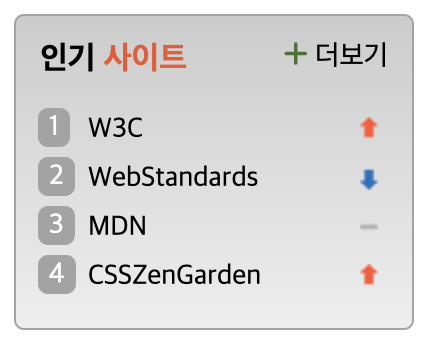
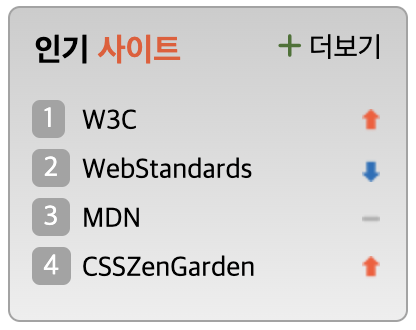
mission-05 제출

diff --git a/mission-05/sprite.css b/mission-05/sprite.css
@@ -46,9 +46,9 @@ a {
   width: 200px;
   height: 158px;
   padding: 12px;
-  background: linear-gradient(180deg, #CCCCCC 0%, #EEEEEE 100%);
+  background: linear-gradient(180deg, #CCC 0%, #EEE 100%);
   border: 1px solid #A3A3A3;
-  border-radius: 5px;
+  border-radius: 6px;
 }
 
 .sprite__title {
@@ -76,8 +76,8 @@ a {
   margin-top: -0.16em;
   background: #a3a3a3;
   color: #fff;
-  padding: 0.1em 0.4em;
-  border-radius: 5px;
+  padding: 0.08em 0.42em;
+  border-radius: 4px;
   font-size: 14px;
 }
 
@@ -90,15 +90,15 @@ a {
 }
 
 .spriteUp {
-  background-position: 2px 2px;
+  background-position: 6px 2px;
 }
 
 .spriteDown {
-  background-position: 2px -41px;
+  background-position: 6px -41px;
 }
 
 .spriteOff {
-  background-position: 2px -19px;
+  background-position: 6px -19px;
 }
 
 
